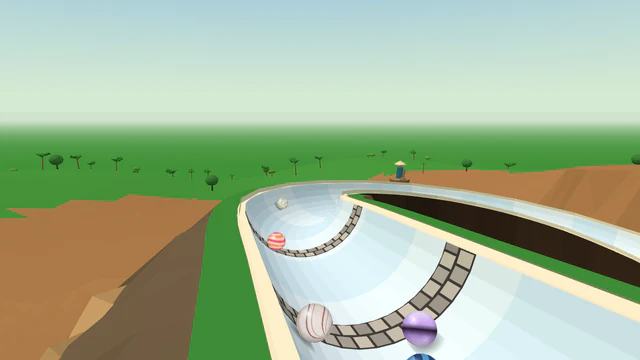
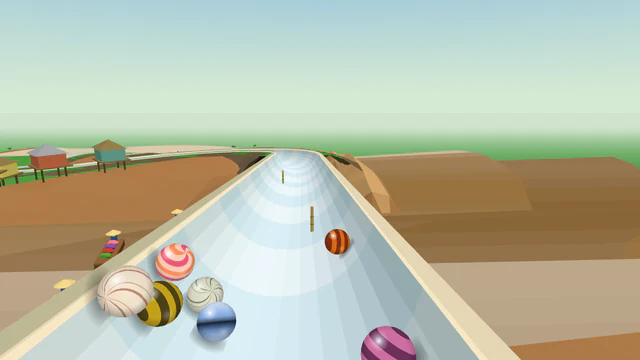
Rivers WIP: more luck in the market slalom
Claude-Session: https://claude.ai/code/session_011vSSkqNPL9kncfzrwF15wS

diff --git a/src/trackKit/layouts.js b/src/trackKit/layouts.js
@@ -1305,7 +1305,7 @@ const LAYOUTS = {
   ],
   /** L75 Market maze (Rivers): a long slalom straight low over the water among the boats (the lottery after a peg drop), S-bends along the bank, up a pier ramp (a short climb) and off it (a drop), the hairpin, a sweep along the bank, a spin, a peg under a pier, a peg straight past a pontoon line's floats and a parked piece and a peg at the run-in. */
   'market-maze': (L, R, c) => [
-    { key: 'boats', name: 'Market slalom', shape: straight(110, { grade: 0.11 }), obstacles: [slalom({ costume: c.slalom, from: 0.25, to: 0.88, count: 4, loss: 0.13 })], billboards: 1 },
+    { key: 'boats', name: 'Market slalom', shape: straight(110, { grade: 0.11 }), obstacles: [slalom({ costume: c.slalom, from: 0.2, to: 0.9, count: 5, loss: 0.22 })], billboards: 1 },
     { key: 'bankBends', name: 'Bank S-bends', shape: sBends({ first: L, radius: 70, degrees: 85, grade: 0.13 }), billboards: 1 },
     { key: 'pierRamp', name: 'Up the pier ramp', shape: climb(12, { grade: -0.05, after: 0.13 }) },
     { key: 'pierDrop', name: 'Off the pier', shape: plunge(40, { grade: 0.22, from: 0.13 }) },
